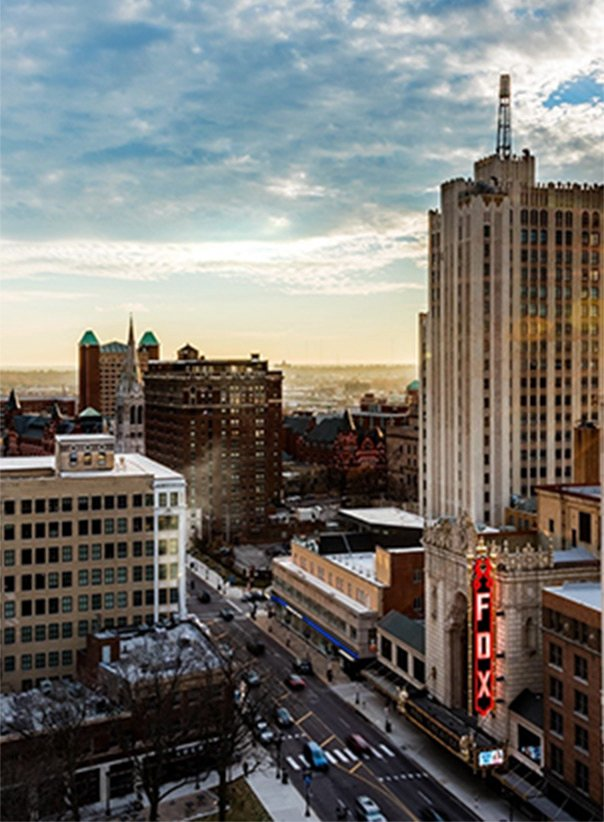
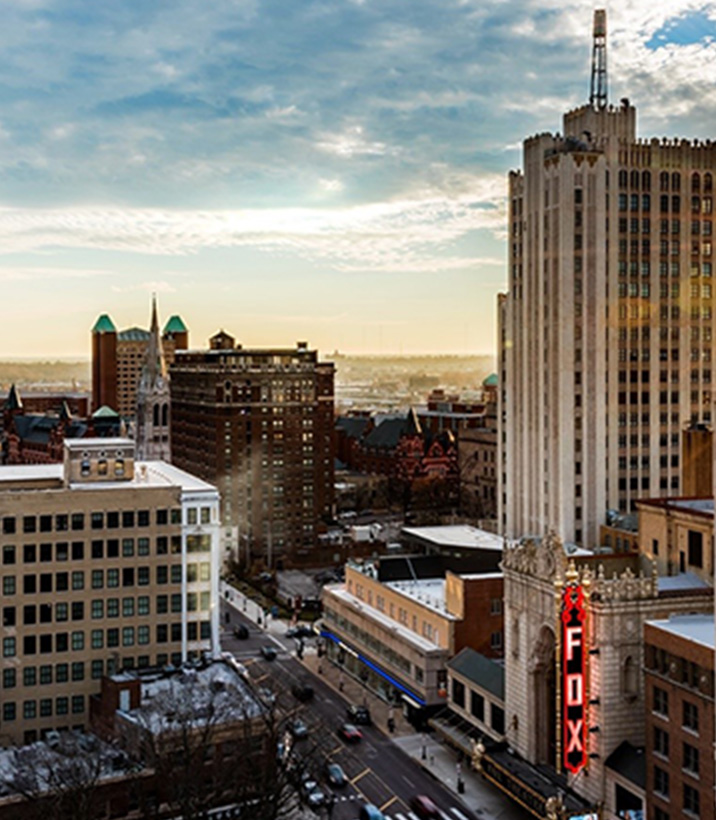
Our event spaces section design changed

diff --git a/_sass/pages/_meetings.scss b/_sass/pages/_meetings.scss
@@ -1,5 +1,8 @@
 .menu-links {
   margin-top: 30px;
+  p {
+    margin-top: 0 !important;
+  }
   .secondary-btn {
     margin: 40px 0 0 50px;
     color: $black;
@@ -12,55 +15,115 @@
   }
 }
 
-.event-spaces {
-  .event-spaces-row {
-    @include make-row;
-    margin: 0;
-    .event-spaces-img {
-      @include make-col-ready();
-      @include media-breakpoint-up(lg) {
-        @include make-col(5);
-        min-height: 320px;
-        padding-right: 0;
-      }
-      @media screen and (max-width: 991px) {
-        min-height: 210px;
-      }
+// .event-spaces {
+//   .event-spaces-row {
+//     @include make-row;
+//     margin: 0;
+//     .event-spaces-img {
+//       @include make-col-ready();
+//       @include media-breakpoint-up(lg) {
+//         @include make-col(5);
+//         min-height: 320px;
+//         padding-right: 0;
+//       }
+//       @media screen and (max-width: 991px) {
+//         min-height: 210px;
+//       }
+//
+//       background-image: url("/assets/images/meetings/skyline.jpg");
+//     }
+//     .event-spaces-text {
+//       padding-left: 35px;
+//       @include make-col-ready();
+//       @include media-breakpoint-up(lg) {
+//         @include make-col(7);
+//         padding-left: 24px;
+//       }
+//       p {
+//         max-width: 220px;
+//         padding-top: 30px;
+//         padding-bottom: 30px;
+//         @media screen and (min-width: 1140px) {
+//           max-width: 300px;
+//         }
+//       }
+//     }
+//     .event-spaces-inner {
+//       @include main-container;
+//       position: relative;
+//       display: none;
+//       @include media-breakpoint-up(lg) {
+//         display: block;
+//       }
+//       img {
+//         position: absolute;
+//         right: 20px;
+//         bottom: -100px;
+//         max-width: 300px;
+//         @include media-breakpoint-down(lg) {
+//           bottom: -60px;
+//         }
+//       }
+//     }
+//   }
+// }
 
-      background-image: url("/assets/images/meetings/skyline.jpg");
+
+.our-event-spaces {
+  width: 100%;
+  margin-bottom: 50px;
+  overflow-x: hidden;
+  @include media-breakpoint-up(md) {
+    margin-bottom: 120px;
+  }
+  .our-event-spaces-inner {
+    @include make-row;
+  }
+  .small-img {
+    @include make-col-ready();
+    @include media-breakpoint-up(md) {
+      @include make-col(4);
     }
-    .event-spaces-text {
-      padding-left: 35px;
-      @include make-col-ready();
-      @include media-breakpoint-up(lg) {
-        @include make-col(7);
-        padding-left: 24px;
-      }
-      p {
-        max-width: 220px;
-        padding-top: 30px;
-        padding-bottom: 30px;
-        @media screen and (min-width: 1140px) {
-          max-width: 300px;
-        }
-      }
+    @include media-breakpoint-up(lg) {
+      @include make-col(3.5);
+      min-height: 500px !important;
     }
-    .event-spaces-inner {
-      @include main-container;
-      position: relative;
-      display: none;
-      @include media-breakpoint-up(lg) {
-        display: block;
-      }
-      img {
-        position: absolute;
-        right: 20px;
-        bottom: -100px;
-        max-width: 300px;
-        @include media-breakpoint-down(lg) {
-          bottom: -60px;
-        }
-      }
+    min-height: 530px !important;
+  }
+  .content {
+    padding: 50px 25px;
+    @include make-col-ready();
+    @include media-breakpoint-up(md) {
+      @include make-col(4);
+      padding: 25px;
+    }
+    @include media-breakpoint-up(lg) {
+      @include make-col(3);
+    }
+    p {
+      padding-left: 25px;
+      font-family: $global-font-family;
+      font-size: $type-size-7;
+      font-weight: 300;
+      color: $black;
+      text-transform: uppercase;
+      letter-spacing: 1.9px;
+    }
+  }
+  .big-img {
+    min-height: 300px !important;
+    @include make-col-ready();
+    @include media-breakpoint-up(md) {
+      @include make-col(4);
+      min-height: 500px !important;
+    }
+    @include media-breakpoint-up(lg) {
+      @include make-col(5.5);
+    }
+    .color-block-green {
+      position: absolute;
+      right: 35px;
+      bottom: 300px;
     }
   }
 }

diff --git a/_pages/meetings-catering.html b/_pages/meetings-catering.html
@@ -69,7 +69,7 @@ published: true
       {% regionblock playhouse_text, type: text %}
         <p>The perfect place to celebrate your wedding reception after a rooftop ceremony at sunset. The prefunction space can be used for a cocktail reception followed by a dinner in the ballroom.</p>
         <p>Lobby Seating: 36 people<br>
-        Prefunction Seating: 30 people<Mbr>
+        Prefunction Seating: 30 people<br>
         Banquet Seating Count: 120 people</p>
       {% endregionblock %}
     </div>
@@ -85,22 +85,20 @@ published: true
   </div>
 </section>
 
-<section class="event-spaces mb-120">
-  <div class="event-spaces-row">
-    <div class="event-spaces-img bg-styles">
+
+<section class="our-event-spaces">
+  <div class="our-event-spaces-inner m-0">
+    <div class="big-img bg-styles" style="background-image: url('/assets/images/meetings/skyline.jpg');">
+      <div class="color-block-green from-left"></div>
     </div>
-    <div class="event-spaces-text">
+    <div class="content d-flex align-items-center">
       {% regionblock event_spaces_text, type: text %}
         <p>Our event spaces atop the hotel boast spectacular skyline views and are ideal settings for both social and corporate events.</p>
       {% endregionblock %}
     </div>
-    <div class="event-spaces-inner">
-      {% regionblock event_spaces_img, type: image %}
-        <img src="/assets/images/meetings/rooftop.jpg" alt="Rooftop View">
-      {% endregionblock %}
+    <div class="small-img bg-styles" style="background-image: url('/assets/images/meetings/rooftop.jpg');">
     </div>
   </div>
-  <div class="grad-bg"></div>
 </section>
 
 <section class="full-image-text mb-120">
